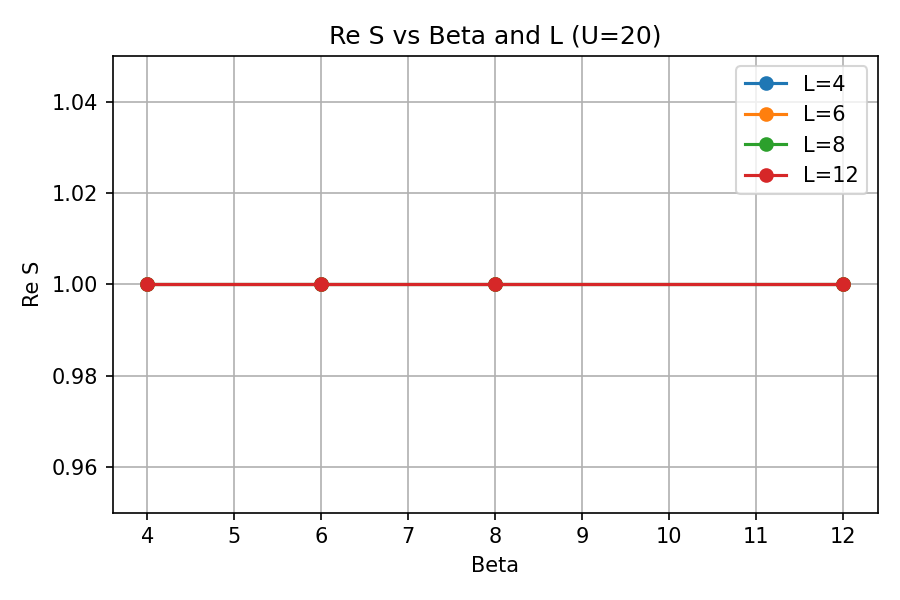
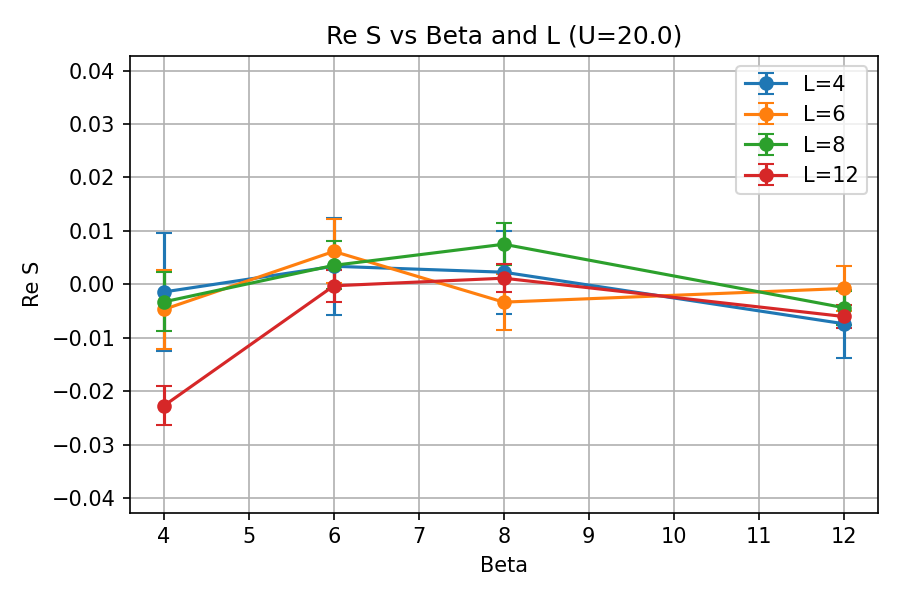
refactor: separate plotting scripts and improve average sign visuals

diff --git a/experiments/run_average_sign.py b/experiments/run_average_sign.py
@@ -1,10 +1,11 @@
-"""Average sign parameter studies and visualization.
+"""Average sign parameter sweeps (data generation only).
 
-This script runs the simulation for two scenarios:
+This script runs simulations for two scenarios:
 1. Fixed L=12, beta=12 while scanning the interaction strength U.
 2. Fixed U=20 while scanning beta and lattice size L (defaults: L∈{4,6,8,12}).
 
-Results (JSON + plots) are stored under ``experiments/output`` by default.
+It produces JSON data (and per-run logs) in the chosen output directory. Plotting
+is handled separately by ``plot_average_sign.py``.
 """
 
 from __future__ import annotations
@@ -15,7 +16,6 @@ from dataclasses import dataclass, replace
 from pathlib import Path
 from typing import Iterable, List
 
-import matplotlib.pyplot as plt
 import numpy as np
 
 from worldline_qmc import auxiliary, config, simulation
@@ -102,88 +102,6 @@ def run_experiment(
     return results
 
 
-def plot_u_sweep(data: List[dict], output_path: Path) -> None:
-    interactions = [entry["interaction"] for entry in data]
-    avg_sign = [entry["measurements"]["re"] for entry in data]
-    errors = []
-    for entry in data:
-        var = entry["variances"]["re"]
-        samples = entry.get("samples", 0)
-        err = np.sqrt(var / samples) if samples > 0 else 0.0
-        errors.append(err)
-    plt.figure(figsize=(6, 4))
-    plt.errorbar(interactions, avg_sign, yerr=errors, marker="o", capsize=4)
-    plt.xlabel("Interaction U")
-    plt.ylabel("Re S")
-    plt.title("Re S vs U (L=32, beta=32)")
-    if avg_sign:
-        y_min = min(avg_sign)
-        y_max = max(avg_sign)
-        if y_max == y_min:
-            margin = max(0.05 * abs(y_max), 0.05)
-            plt.ylim(y_min - margin, y_max + margin)
-        else:
-            span = y_max - y_min
-            margin = span * 0.1
-            plt.ylim(y_min - margin, y_max + margin)
-    plt.grid(True)
-    plt.tight_layout()
-    output_path.parent.mkdir(parents=True, exist_ok=True)
-    plt.savefig(output_path, dpi=150)
-    plt.close()
-
-
-def plot_beta_l_sweep(data: List[dict], output_path: Path) -> None:
-    # Group by lattice size and plot Re S vs beta for each L.
-    grouped: dict[int, list[tuple[float, float]]] = {}
-    entry_lookup: dict[tuple[int, float], dict] = {}
-    for entry in data:
-        grouped.setdefault(entry["lattice_size"], []).append(
-            (entry["beta"], entry["measurements"]["re"])
-        )
-        entry_lookup[(entry["lattice_size"], entry["beta"])] = entry
-    plt.figure(figsize=(6, 4))
-    for lattice_size, values in sorted(grouped.items()):
-        values.sort(key=lambda item: item[0])
-        betas, avg_sign_vals, errors = [], [], []
-        for beta_val, avg_val in values:
-            entry = entry_lookup[(lattice_size, beta_val)]
-            betas.append(beta_val)
-            avg_sign_vals.append(avg_val)
-            var = entry["variances"]["re"]
-            samples = entry.get("samples", 0)
-            err = np.sqrt(var / samples) if samples > 0 else 0.0
-            errors.append(err)
-        plt.errorbar(
-            betas,
-            avg_sign_vals,
-            yerr=errors,
-            marker="o",
-            capsize=4,
-            label=f"L={lattice_size}",
-        )
-    plt.xlabel("Beta")
-    plt.ylabel("Re S")
-    plt.title("Re S vs Beta and L (U=20)")
-    if grouped:
-        all_values = [value for values in grouped.values() for _, value in values]
-        y_min = min(all_values)
-        y_max = max(all_values)
-        if y_max == y_min:
-            margin = max(0.05 * abs(y_max), 0.05)
-            plt.ylim(y_min - margin, y_max + margin)
-        else:
-            span = y_max - y_min
-            margin = span * 0.1
-            plt.ylim(y_min - margin, y_max + margin)
-    plt.legend()
-    plt.grid(True)
-    plt.tight_layout()
-    output_path.parent.mkdir(parents=True, exist_ok=True)
-    plt.savefig(output_path, dpi=150)
-    plt.close()
-
-
 def parse_args(argv: list[str] | None = None) -> argparse.Namespace:
     parser = argparse.ArgumentParser(description="Average sign studies")
     parser.add_argument("--output-dir", type=Path, default=DEFAULT_OUTPUT_DIR)
@@ -246,7 +164,6 @@ def main(argv: list[str] | None = None) -> int:
     )
     u_json_path = output_dir / "average_sign_vs_U.json"
     u_json_path.write_text(json.dumps(u_results, indent=2), encoding="utf-8")
-    plot_u_sweep(u_results, output_dir / "average_sign_vs_U.png")
 
     # Scenario 2: vary beta and L at fixed U.
     beta_l_specs: List[RunSpec] = []
@@ -270,7 +187,6 @@ def main(argv: list[str] | None = None) -> int:
     )
     beta_l_json_path = output_dir / "average_sign_vs_beta_L.json"
     beta_l_json_path.write_text(json.dumps(beta_l_results, indent=2), encoding="utf-8")
-    plot_beta_l_sweep(beta_l_results, output_dir / "average_sign_vs_beta_L.png")
 
     return 0
 

diff --git a/experiments/plot_sign_vs_beta_L.py b/experiments/plot_sign_vs_beta_L.py
@@ -1,0 +1,89 @@
+"""Plot Re S vs beta for multiple lattice sizes from JSON data."""
+
+from __future__ import annotations
+
+import argparse
+import json
+from pathlib import Path
+from typing import Dict, List, Tuple
+
+import matplotlib.pyplot as plt
+import numpy as np
+
+
+def load_data(path: Path) -> List[dict]:
+    return json.loads(path.read_text(encoding="utf-8"))
+
+
+def plot(data: List[dict], output: Path, title: str | None = None) -> None:
+    grouped: Dict[int, List[Tuple[float, float]]] = {}
+    entry_lookup: Dict[Tuple[int, float], dict] = {}
+    for entry in data:
+        grouped.setdefault(entry["lattice_size"], []).append(
+            (entry["beta"], entry["measurements"]["re"])
+        )
+        entry_lookup[(entry["lattice_size"], entry["beta"])] = entry
+
+    if title is None:
+        interactions = {entry["interaction"] for entry in data}
+        if len(interactions) == 1:
+            (U,) = interactions
+            title = f"Re S vs Beta and L (U={U})"
+        else:
+            title = "Re S vs Beta and L"
+
+    plt.figure(figsize=(6, 4))
+    all_values: List[float] = []
+    for lattice_size, values in sorted(grouped.items()):
+        values.sort(key=lambda item: item[0])
+        betas, avg_vals, errors = [], [], []
+        for beta_val, avg_val in values:
+            entry = entry_lookup[(lattice_size, beta_val)]
+            betas.append(beta_val)
+            avg_vals.append(avg_val)
+            var = entry["variances"]["re"]
+            samples = entry.get("samples", 0)
+            err = np.sqrt(var / samples) if samples > 0 else 0.0
+            errors.append(err)
+            all_values.append(avg_val)
+        plt.errorbar(
+            betas,
+            avg_vals,
+            yerr=errors,
+            marker="o",
+            capsize=4,
+            label=f"L={lattice_size}",
+        )
+
+    plt.xlabel("Beta")
+    plt.ylabel("Re S")
+    plt.title(title)
+    if all_values:
+        span = max(abs(val) for val in all_values)
+        margin = max(span * 0.2, 0.02)
+        plt.ylim(-span - margin, span + margin)
+    plt.legend()
+    plt.grid(True)
+    plt.tight_layout()
+    output.parent.mkdir(parents=True, exist_ok=True)
+    plt.savefig(output, dpi=150)
+    plt.close()
+
+
+def parse_args(argv: List[str] | None = None) -> argparse.Namespace:
+    parser = argparse.ArgumentParser(description="Plot Re S vs beta and L from JSON data")
+    parser.add_argument("--data", required=True, type=Path, help="Path to JSON data file")
+    parser.add_argument("--output", required=True, type=Path, help="Output PNG path")
+    parser.add_argument("--title", type=str, help="Optional custom title")
+    return parser.parse_args(argv)
+
+
+def main(argv: List[str] | None = None) -> int:
+    args = parse_args(argv)
+    data = load_data(args.data)
+    plot(data, args.output, title=args.title)
+    return 0
+
+
+if __name__ == "__main__":  # pragma: no cover
+    raise SystemExit(main())

diff --git a/experiments/plot_sign_vs_U.py b/experiments/plot_sign_vs_U.py
@@ -1,0 +1,70 @@
+"""Plot Re S vs interaction U from generated JSON data."""
+
+from __future__ import annotations
+
+import argparse
+import json
+from pathlib import Path
+from typing import List
+
+import matplotlib.pyplot as plt
+import numpy as np
+
+
+def load_data(path: Path) -> List[dict]:
+    return json.loads(path.read_text(encoding="utf-8"))
+
+
+def plot(data: List[dict], output: Path, title: str | None = None) -> None:
+    interactions = [entry["interaction"] for entry in data]
+    avg_sign = [entry["measurements"]["re"] for entry in data]
+    errors = []
+    for entry in data:
+        var = entry["variances"]["re"]
+        samples = entry.get("samples", 0)
+        err = np.sqrt(var / samples) if samples > 0 else 0.0
+        errors.append(err)
+
+    if title is None:
+        lattices = {entry["lattice_size"] for entry in data}
+        betas = {entry["beta"] for entry in data}
+        if len(lattices) == 1 and len(betas) == 1:
+            (L,) = lattices
+            (beta,) = betas
+            title = f"Re S vs U (L={L}, beta={beta})"
+        else:
+            title = "Re S vs U"
+
+    plt.figure(figsize=(6, 4))
+    plt.errorbar(interactions, avg_sign, yerr=errors, marker="o", capsize=4)
+    plt.xlabel("Interaction U")
+    plt.ylabel("Re S")
+    plt.title(title)
+    if avg_sign:
+        span = max(abs(val) for val in avg_sign)
+        margin = max(span * 0.2, 0.02)
+        plt.ylim(-span - margin, span + margin)
+    plt.grid(True)
+    plt.tight_layout()
+    output.parent.mkdir(parents=True, exist_ok=True)
+    plt.savefig(output, dpi=150)
+    plt.close()
+
+
+def parse_args(argv: List[str] | None = None) -> argparse.Namespace:
+    parser = argparse.ArgumentParser(description="Plot Re S vs U from JSON data")
+    parser.add_argument("--data", required=True, type=Path, help="Path to JSON data file")
+    parser.add_argument("--output", required=True, type=Path, help="Output PNG path")
+    parser.add_argument("--title", type=str, help="Optional custom title")
+    return parser.parse_args(argv)
+
+
+def main(argv: List[str] | None = None) -> int:
+    args = parse_args(argv)
+    data = load_data(args.data)
+    plot(data, args.output, title=args.title)
+    return 0
+
+
+if __name__ == "__main__":  # pragma: no cover
+    raise SystemExit(main())

diff --git a/tests/test_experiments.py b/tests/test_experiments.py
@@ -1,6 +1,8 @@
 import json
 from pathlib import Path
 
+import experiments.plot_sign_vs_U as plot_u
+import experiments.plot_sign_vs_beta_L as plot_beta_l
 import experiments.run_average_sign as run_avg
 
 
@@ -30,7 +32,23 @@ def test_run_average_sign_script(tmp_path, monkeypatch):
     assert len(u_json) == 1
     beta_l_json = json.loads((output_dir / "average_sign_vs_beta_L.json").read_text(encoding="utf-8"))
     assert len(beta_l_json) == 1
-    assert (output_dir / "average_sign_vs_U.png").exists()
-    assert (output_dir / "average_sign_vs_beta_L.png").exists()
     assert any((output_dir / "logs_u").glob("*.jsonl"))
     assert any((output_dir / "logs_beta_l").glob("*.jsonl"))
+
+    # Plotting scripts should create figures from the generated JSON data.
+    plot_u_path = output_dir / "plot_u.png"
+    plot_beta_path = output_dir / "plot_beta.png"
+    plot_u.main([
+        "--data",
+        str(output_dir / "average_sign_vs_U.json"),
+        "--output",
+        str(plot_u_path),
+    ])
+    plot_beta_l.main([
+        "--data",
+        str(output_dir / "average_sign_vs_beta_L.json"),
+        "--output",
+        str(plot_beta_path),
+    ])
+    assert plot_u_path.exists()
+    assert plot_beta_path.exists()

diff --git a/README.md b/README.md
@@ -96,7 +96,7 @@ The JSON produced by the CLI or `SimulationResult.to_dict()` includes:
 
 ## Experiments & Visualization
 
-The helper script `experiments/run_average_sign.py` reproduces the parameter studies described in the project request（默认绘制 `Re S`），并把 JSON/PNG/日志写入 `experiments/output/`：
+`experiments/run_average_sign.py` reproduces the parameter studies described in the project request（默认输出 `Re S` 数据与日志，**不直接绘图**）：
 
 ```bash
 uv run python experiments/run_average_sign.py --verbose
@@ -104,10 +104,24 @@ uv run python experiments/run_average_sign.py --verbose
 
 Key scenarios implemented:
 
-1. Fixed `L=12`, `β=12`, varying `U` (plot `average_sign_vs_U.png`).
-2. Fixed `U=20`, varying `β` 与 `L ∈ {4,6,8,12}`（plot `average_sign_vs_beta_L.png`）。
+1. Fixed `L=12`, `β=12`, varying `U`（生成 `average_sign_vs_U.json` 与对应日志）。
+2. Fixed `U=20`, varying `β` 与 `L ∈ {4,6,8,12}`（生成 `average_sign_vs_beta_L.json` 与对应日志）。
 
-Use `--sweeps`, `--thermalization`, `--u-values`, `--beta-values`, `--l-values`, `--fft-mode`, and `--seed` to customise workloads；脚本还会在 `logs_u/`、`logs_beta_l/` 中生成 JSONL 诊断（Matplotlib 使用 Agg backend，标签保持英文）。
+Use `--sweeps`, `--thermalization`, `--u-values`, `--beta-values`, `--l-values`, `--fft-mode`, `--measurement-interval`, and `--seed` to customise workloads；脚本还会在 `logs_u/`、`logs_beta_l/` 中生成 JSONL 诊断。
+
+绘图使用单独脚本：
+
+```bash
+uv run python experiments/plot_sign_vs_U.py \
+    --data experiments/output/average_sign_vs_U.json \
+    --output experiments/output/average_sign_vs_U.png
+
+uv run python experiments/plot_sign_vs_beta_L.py \
+    --data experiments/output/average_sign_vs_beta_L.json \
+    --output experiments/output/average_sign_vs_beta_L.png
+```
+
+图像默认展示 `Re S` 及其标准误差（来自方差/有效样本数），y 轴会根据数据自动聚焦在 0 周围。若需要自定义标题，可使用 `--title` 参数。
 
 ## Tests
 

diff --git a/AGENTS.md b/AGENTS.md
@@ -139,3 +139,4 @@ Future updates to this plan should timestamp new sections to preserve progress h
 - `experiments/run_average_sign.py` now defaults to small lattices (`L=12, β=12` for U sweeps; `L, β ∈ {4,6,8,12}` for the second scenario), plots `Re S` with standard-error bars, and samples `S(X)` multiple times per sweep (`measurement_interval` configurable).
 - Script logs each run under `logs_u/` / `logs_beta_l/` using descriptive filenames (`L{L}_beta{β}_U{U}.jsonl`), and exposes both `--fft-mode` and `--measurement-interval`.
 - Fresh experimental outputs generated for complex and real FFT modes (64 sweeps, 16 thermalization sweeps) stored in `experiments/results/{complex,real}/` along with JSONL diagnostics.
+- Plotting is decoupled into `plot_sign_vs_U.py` / `plot_sign_vs_beta_L.py`, avoiding costly reruns when tweaking visualization parameters.
